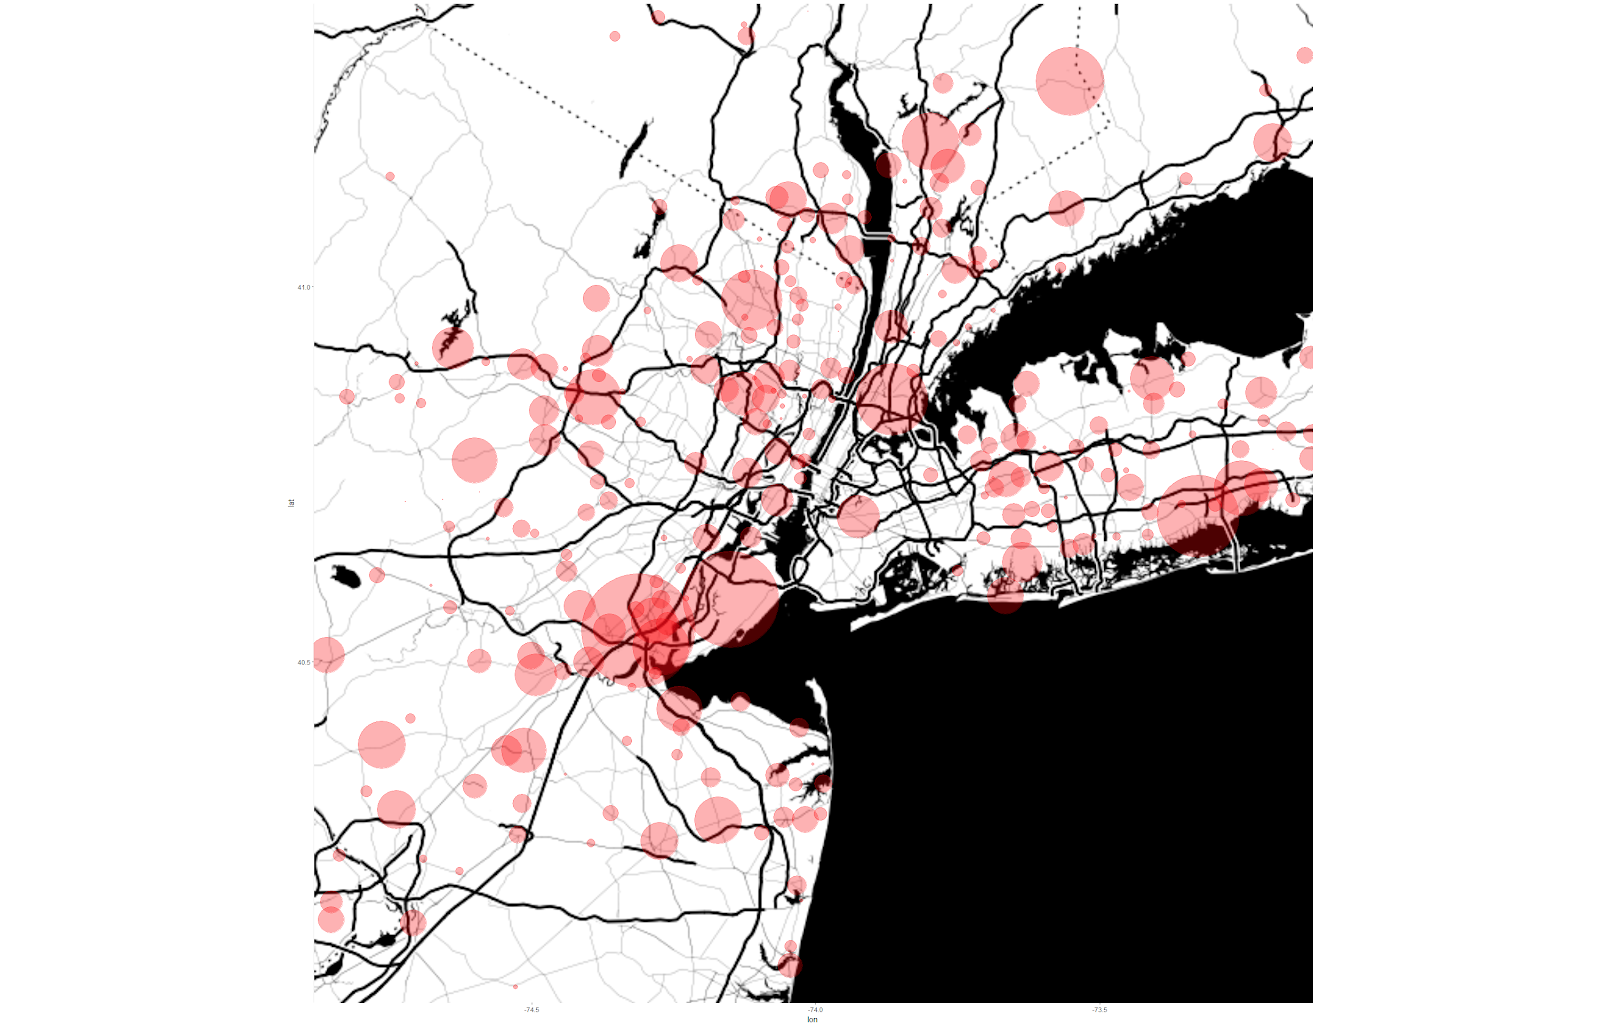
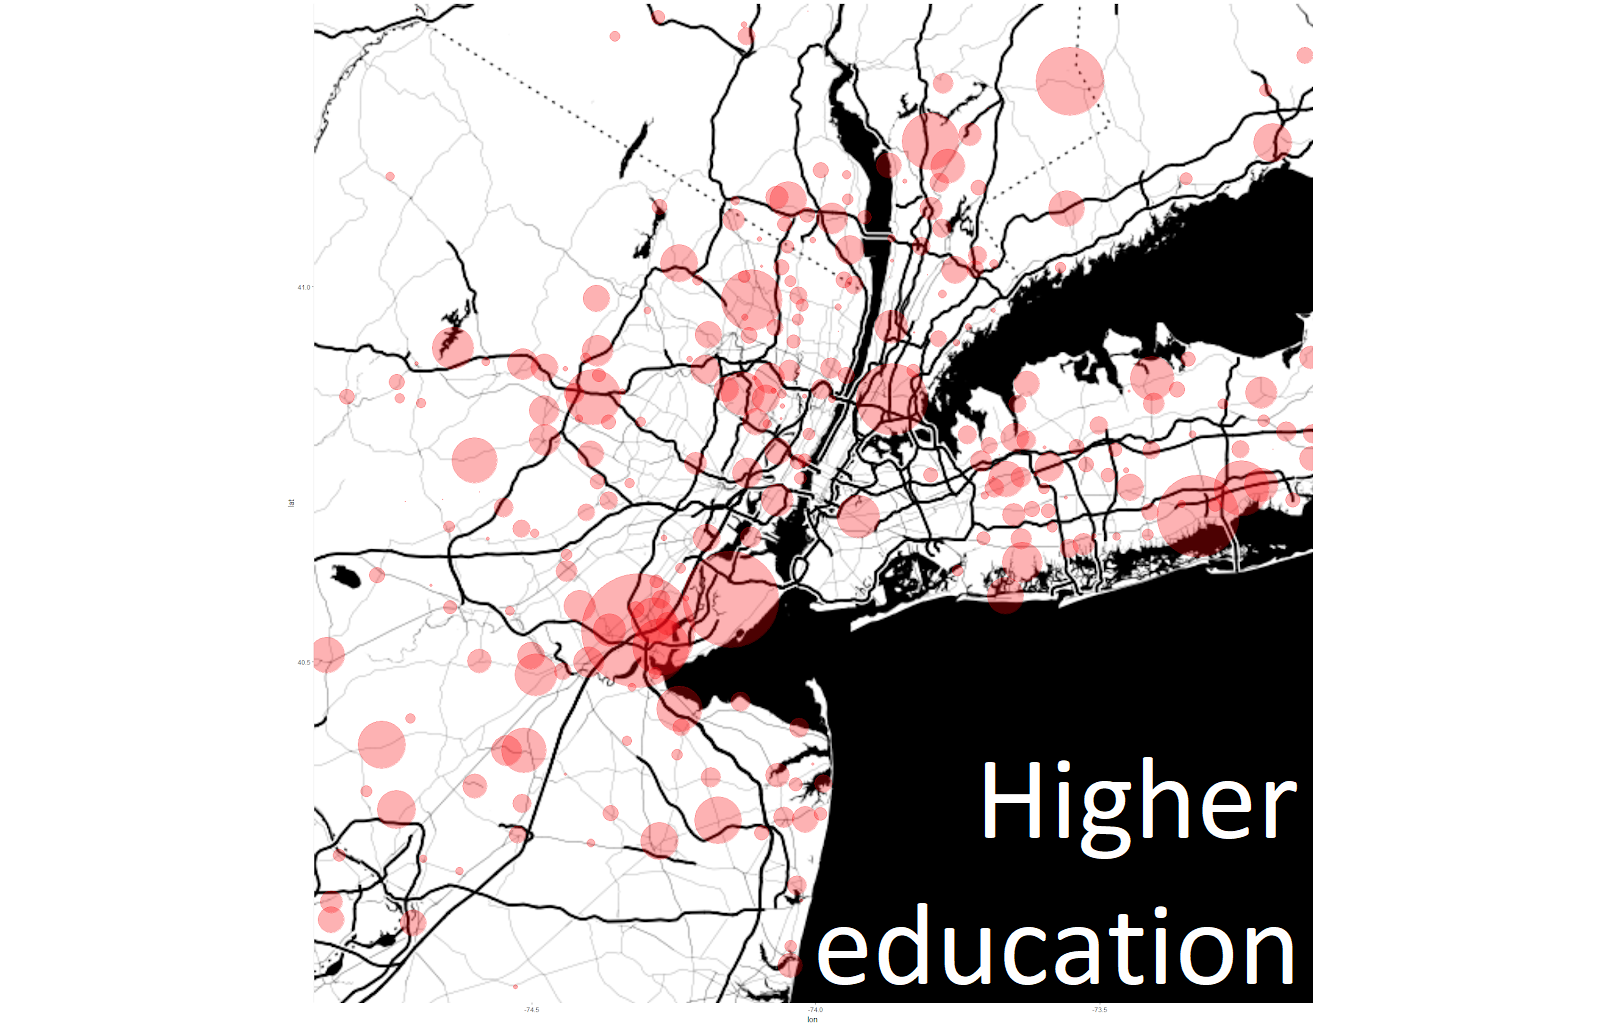
updatepics

Changed region(s): [[0.5, 0.8733, 0.8125, 0.9669], [0.5938, 0.7485, 0.8125, 0.8421]]

diff --git a/datafest.md b/datafest.md
@@ -23,7 +23,7 @@ My friends and I were interested in analyzing the data in ways that could be uti
 
 We categorized locations into cities and suburbs designated by the Census Bureau. We performed our analysis by testing the hypothesis that the proportion of local clicks in the city was the same as the proportion of local clicks in the suburbs. We also ran a linear regression with city density and metropolitan area fixed effects, on a subset of the data. 
 
-<img src="/img/datafestplot.png" width="300" class="col one right">
+<img src="/img/datafestplot.png" width="600" class="col one right">
 
 In the image to your right, you can see that there is a lower proportion of local clicks for jobs that require higher education versus those that require only a high school diploma. Likewise, there is a higher proportion of local clicks for jobs that are in the city versus those that are located in the suburbs. Through hypothesis testing, we showed that the difference in proportion of local clicks for cities versus suburbs is significant across education groups. 
 
@@ -31,7 +31,7 @@ In the image to your right, you can see that there is a lower proportion of loca
 
 We also constructed maps by education level of proportion of local clicks in each suburb. You can see here, in maps of New York City, that bigger circles exist in blue than in red-- representing higher proportions of local clicks for lower-education jobs. We can also see in both maps that circles are bigger in the center of the city compared to the suburbs-- representing the higher proportion of local clicks for jobs in the city. 
 
-<img src="/img/nychs.png" width="300"> <img src="/img/nychighered.png" width="300">
+<center><img src="/img/nychs.png" width="300"> <img src="/img/nychighered.png" width="300"></center>
 
 <br/>
 
